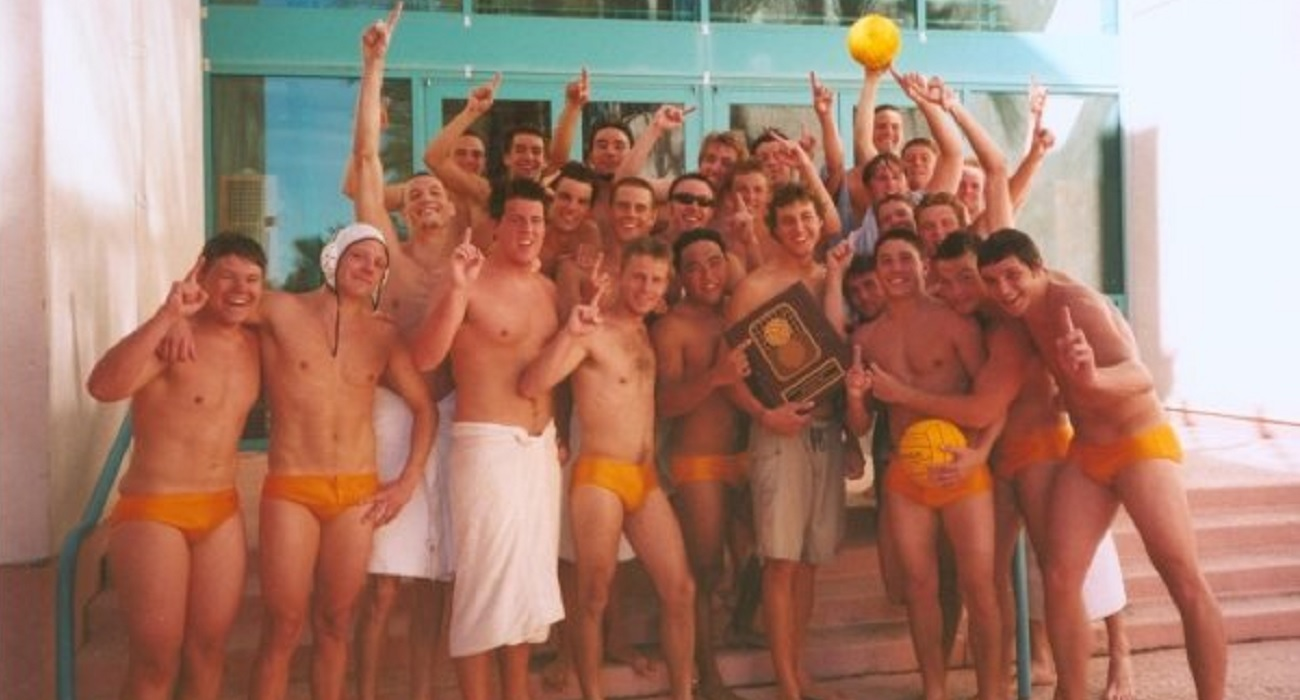
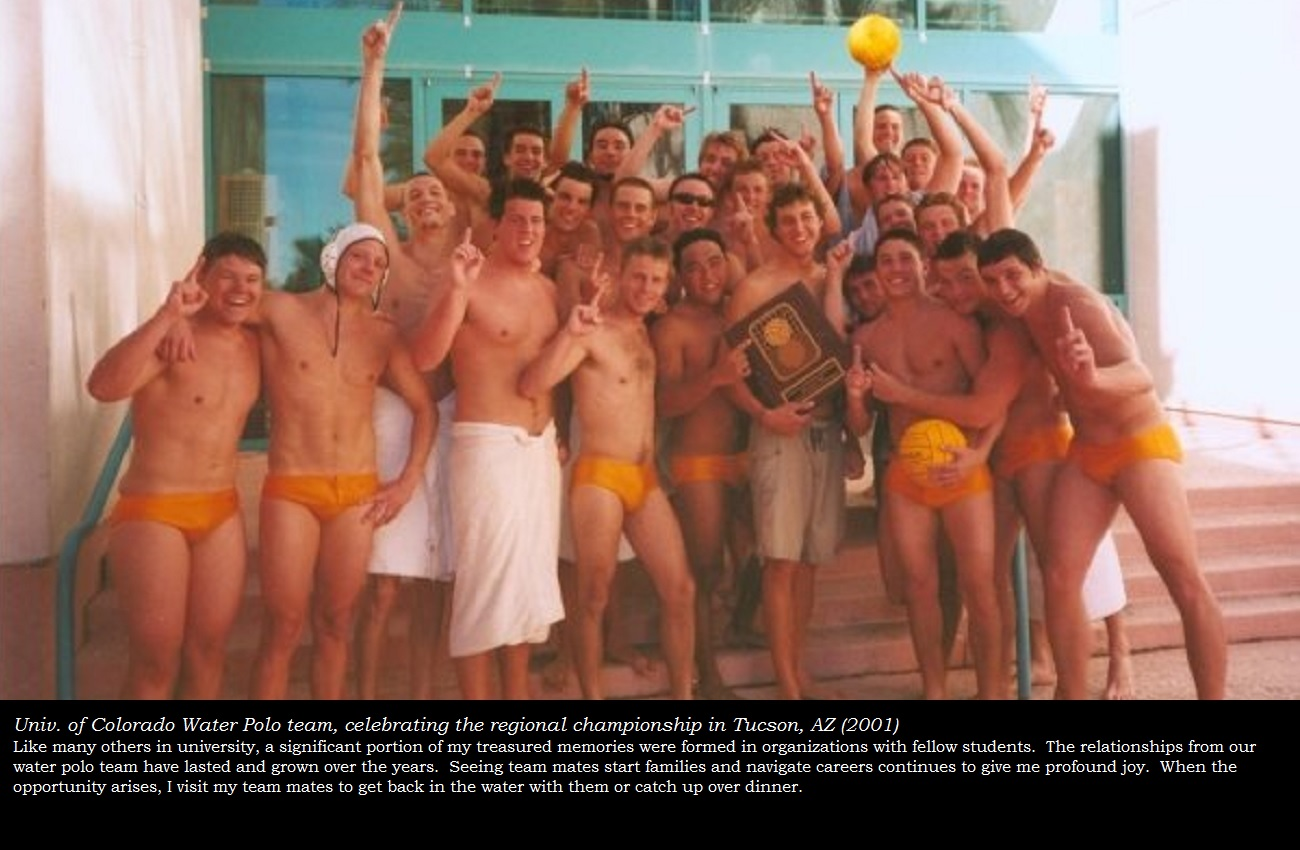
Full Img captions
added captions to the full-size images for the personal portfolio

diff --git a/vendor/magnific-popup/jquery.magnific-popup.min.js b/vendor/magnific-popup/jquery.magnific-popup.min.js
@@ -5,4 +5,4 @@
 * Copyright (c) 2016 Dmitry Semenov;
  */
 !
-function(a){"function"==typeof define&&define.amd?define(["jquery"],a):a("object"==typeof exports?require("jquery"):window.jQuery||window.Zepto)}(function(a){var b,c,d,e,f,g,h="Close",i="BeforeClose",j="AfterClose",k="BeforeAppend",l="MarkupParse",m="Open",n="Change",o="mfp",p="."+o,q="mfp-ready",r="mfp-removing",s="mfp-prevent-close",t=function(){},u=!!window.jQuery,v=a(window),w=function(a,c){b.ev.on(o+a+p,c)},x=function(b,c,d,e){var f=document.createElement("div");return f.className="mfp-"+b,d&&(f.innerHTML=d),e?c&&c.appendChild(f):(f=a(f),c&&f.appendTo(c)),f},y=function(c,d){b.ev.triggerHandler(o+c,d),b.st.callbacks&&(c=c.charAt(0).toLowerCase()+c.slice(1),b.st.callbacks[c]&&b.st.callbacks[c].apply(b,a.isArray(d)?d:[d]))},z=function(c){return c===g&&b.currTemplate.closeBtn||(b.currTemplate.closeBtn=a(b.st.closeMarkup.replace("%title%",b.st.tClose)),g=c),b.currTemplate.closeBtn},A=function(){a.magnificPopup.instance||(b=new t,b.init(),a.magnificPopup.instance=b)},B=function(){var a=document.createElement("p").style,b=["ms","O","Moz","Webkit"];if(void 0!==a.transition)return!0;for(;b.length;)if(b.pop()+"Transition"in a)return!0;return!1};t.prototype={constructor:t,init:function(){var c=navigator.appVersion;b.isLowIE=b.isIE8=document.all&&!document.addEventListener,b.isAndroid=/android/gi.test(c),b.isIOS=/iphone|ipad|ipod/gi.test(c),b.supportsTransition=B(),b.probablyMobile=b.isAndroid||b.isIOS||/(Opera Mini)|Kindle|webOS|BlackBerry|(Opera Mobi)|(Windows Phone)|IEMobile/i.test(navigator.userAgent),d=a(document),b.popupsCache={}},open:function(c){var e;if(c.isObj===!1){b.items=c.items.toArray(),b.index=0;var g,h=c.items;for(e=0;e<h.length;e++)if(g=h[e],g.parsed&&(g=g.el[0]),g===c.el[0]){b.index=e;break}}else b.items=a.isArray(c.items)?c.items:[c.items],b.index=c.index||0;if(b.isOpen)return void b.updateItemHTML();b.types=[],f="",c.mainEl&&c.mainEl.length?b.ev=c.mainEl.eq(0):b.ev=d,c.key?(b.popupsCache[c.key]||(b.popupsCache[c.key]={}),b.currTemplate=b.popupsCache[c.key]):b.currTemplate={},b.st=a.extend(!0,{},a.magnificPopup.defaults,c),b.fixedContentPos="auto"===b.st.fixedContentPos?!b.probablyMobile:b.st.fixedContentPos,b.st.modal&&(b.st.closeOnContentClick=!1,b.st.closeOnBgClick=!1,b.st.showCloseBtn=!1,b.st.enableEscapeKey=!1),b.bgOverlay||(b.bgOverlay=x("bg").on("click"+p,function(){b.close()}),b.wrap=x("wrap").attr("tabindex",-1).on("click"+p,function(a){b._checkIfClose(a.target)&&b.close()}),b.container=x("container",b.wrap)),b.contentContainer=x("content"),b.st.preloader&&(b.preloader=x("preloader",b.container,b.st.tLoading));var i=a.magnificPopup.modules;for(e=0;e<i.length;e++){var j=i[e];j=j.charAt(0).toUpperCase()+j.slice(1),b["init"+j].call(b)}y("BeforeOpen"),b.st.showCloseBtn&&(b.st.closeBtnInside?(w(l,function(a,b,c,d){c.close_replaceWith=z(d.type)}),f+=" mfp-close-btn-in"):b.wrap.append(z())),b.st.alignTop&&(f+=" mfp-align-top"),b.fixedContentPos?b.wrap.css({overflow:b.st.overflowY,overflowX:"hidden",overflowY:b.st.overflowY}):b.wrap.css({top:v.scrollTop(),position:"absolute"}),(b.st.fixedBgPos===!1||"auto"===b.st.fixedBgPos&&!b.fixedContentPos)&&b.bgOverlay.css({height:d.height(),position:"absolute"}),b.st.enableEscapeKey&&d.on("keyup"+p,function(a){27===a.keyCode&&b.close()}),v.on("resize"+p,function(){b.updateSize()}),b.st.closeOnContentClick||(f+=" mfp-auto-cursor"),f&&b.wrap.addClass(f);var k=b.wH=v.height(),n={};if(b.fixedContentPos&&b._hasScrollBar(k)){var o=b._getScrollbarSize();o&&(n.marginRight=o)}b.fixedContentPos&&(b.isIE7?a("body, html").css("overflow","hidden"):n.overflow="hidden");var r=b.st.mainClass;return b.isIE7&&(r+=" mfp-ie7"),r&&b._addClassToMFP(r),b.updateItemHTML(),y("BuildControls"),a("html").css(n),b.bgOverlay.add(b.wrap).prependTo(b.st.prependTo||a(document.body)),b._lastFocusedEl=document.activeElement,setTimeout(function(){b.content?(b._addClassToMFP(q),b._setFocus()):b.bgOverlay.addClass(q),d.on("focusin"+p,b._onFocusIn)},16),b.isOpen=!0,b.updateSize(k),y(m),c},close:function(){b.isOpen&&(y(i),b.isOpen=!1,b.st.removalDelay&&!b.isLowIE&&b.supportsTransition?(b._addClassToMFP(r),setTimeout(function(){b._close()},b.st.removalDelay)):b._close())},_close:function(){y(h);var c=r+" "+q+" ";if(b.bgOverlay.detach(),b.wrap.detach(),b.container.empty(),b.st.mainClass&&(c+=b.st.mainClass+" "),b._removeClassFromMFP(c),b.fixedContentPos){var e={marginRight:""};b.isIE7?a("body, html").css("overflow",""):e.overflow="",a("html").css(e)}d.off("keyup"+p+" focusin"+p),b.ev.off(p),b.wrap.attr("class","mfp-wrap").removeAttr("style"),b.bgOverlay.attr("class","mfp-bg"),b.container.attr("class","mfp-container"),!b.st.showCloseBtn||b.st.closeBtnInside&&b.currTemplate[b.currItem.type]!==!0||b.currTemplate.closeBtn&&b.currTemplate.closeBtn.detach(),b.st.autoFocusLast&&b._lastFocusedEl&&a(b._lastFocusedEl).focus(),b.currItem=null,b.content=null,b.currTemplate=null,b.prevHeight=0,y(j)},updateSize:function(a){if(b.isIOS){var c=document.documentElement.clientWidth/window.innerWidth,d=window.innerHeight*c;b.wrap.css("height",d),b.wH=d}else b.wH=a||v.height();b.fixedContentPos||b.wrap.css("height",b.wH),y("Resize")},updateItemHTML:function(){var c=b.items[b.index];b.contentContainer.detach(),b.content&&b.content.detach(),c.parsed||(c=b.parseEl(b.index));var d=c.type;if(y("BeforeChange",[b.currItem?b.currItem.type:"",d]),b.currItem=c,!b.currTemplate[d]){var f=b.st[d]?b.st[d].markup:!1;y("FirstMarkupParse",f),f?b.currTemplate[d]=a(f):b.currTemplate[d]=!0}e&&e!==c.type&&b.container.removeClass("mfp-"+e+"-holder");var g=b["get"+d.charAt(0).toUpperCase()+d.slice(1)](c,b.currTemplate[d]);b.appendContent(g,d),c.preloaded=!0,y(n,c),e=c.type,b.container.prepend(b.contentContainer),y("AfterChange")},appendContent:function(a,c){b.content=a,a?b.st.showCloseBtn&&b.st.closeBtnInside&&b.currTemplate[c]===!0?b.content.find(".mfp-close").length||b.content.append(z()):b.content=a:b.content="",y(k),b.container.addClass("mfp-"+c+"-holder"),b.contentContainer.append(b.content)},parseEl:function(c){var d,e=b.items[c];if(e.tagName?e={el:a(e)}:(d=e.type,e={data:e,src:e.src}),e.el){for(var f=b.types,g=0;g<f.length;g++)if(e.el.hasClass("mfp-"+f[g])){d=f[g];break}e.src=e.el.attr("data-mfp-src"),e.src||(e.src=e.el.attr("href"))}return e.type=d||b.st.type||"inline",e.index=c,e.parsed=!0,b.items[c]=e,y("ElementParse",e),b.items[c]},addGroup:function(a,c){var d=function(d){d.mfpEl=this,b._openClick(d,a,c)};c||(c={});var e="click.magnificPopup";c.mainEl=a,c.items?(c.isObj=!0,a.off(e).on(e,d)):(c.isObj=!1,c.delegate?a.off(e).on(e,c.delegate,d):(c.items=a,a.off(e).on(e,d)))},_openClick:function(c,d,e){var f=void 0!==e.midClick?e.midClick:a.magnificPopup.defaults.midClick;if(f||!(2===c.which||c.ctrlKey||c.metaKey||c.altKey||c.shiftKey)){var g=void 0!==e.disableOn?e.disableOn:a.magnificPopup.defaults.disableOn;if(g)if(a.isFunction(g)){if(!g.call(b))return!0}else if(v.width()<g)return!0;c.type&&(c.preventDefault(),b.isOpen&&c.stopPropagation()),e.el=a(c.mfpEl),e.delegate&&(e.items=d.find(e.delegate)),b.open(e)}},updateStatus:function(a,d){if(b.preloader){c!==a&&b.container.removeClass("mfp-s-"+c),d||"loading"!==a||(d=b.st.tLoading);var e={status:a,text:d};y("UpdateStatus",e),a=e.status,d=e.text,b.preloader.html(d),b.preloader.find("a").on("click",function(a){a.stopImmediatePropagation()}),b.container.addClass("mfp-s-"+a),c=a}},_checkIfClose:function(c){if(!a(c).hasClass(s)){var d=b.st.closeOnContentClick,e=b.st.closeOnBgClick;if(d&&e)return!0;if(!b.content||a(c).hasClass("mfp-close")||b.preloader&&c===b.preloader[0])return!0;if(c===b.content[0]||a.contains(b.content[0],c)){if(d)return!0}else if(e&&a.contains(document,c))return!0;return!1}},_addClassToMFP:function(a){b.bgOverlay.addClass(a),b.wrap.addClass(a)},_removeClassFromMFP:function(a){this.bgOverlay.removeClass(a),b.wrap.removeClass(a)},_hasScrollBar:function(a){return(b.isIE7?d.height():document.body.scrollHeight)>(a||v.height())},_setFocus:function(){(b.st.focus?b.content.find(b.st.focus).eq(0):b.wrap).focus()},_onFocusIn:function(c){return c.target===b.wrap[0]||a.contains(b.wrap[0],c.target)?void 0:(b._setFocus(),!1)},_parseMarkup:function(b,c,d){var e;d.data&&(c=a.extend(d.data,c)),y(l,[b,c,d]),a.each(c,function(c,d){if(void 0===d||d===!1)return!0;if(e=c.split("_"),e.length>1){var f=b.find(p+"-"+e[0]);if(f.length>0){var g=e[1];"replaceWith"===g?f[0]!==d[0]&&f.replaceWith(d):"img"===g?f.is("img")?f.attr("src",d):f.replaceWith(a("<img>").attr("src",d).attr("class",f.attr("class"))):f.attr(e[1],d)}}else b.find(p+"-"+c).html(d)})},_getScrollbarSize:function(){if(void 0===b.scrollbarSize){var a=document.createElement("div");a.style.cssText="width: 99px; height: 99px; overflow: scroll; position: absolute; top: -9999px;",document.body.appendChild(a),b.scrollbarSize=a.offsetWidth-a.clientWidth,document.body.removeChild(a)}return b.scrollbarSize}},a.magnificPopup={instance:null,proto:t.prototype,modules:[],open:function(b,c){return A(),b=b?a.extend(!0,{},b):{},b.isObj=!0,b.index=c||0,this.instance.open(b)},close:function(){return a.magnificPopup.instance&&a.magnificPopup.instance.close()},registerModule:function(b,c){c.options&&(a.magnificPopup.defaults[b]=c.options),a.extend(this.proto,c.proto),this.modules.push(b)},defaults:{disableOn:0,key:null,midClick:!1,mainClass:"",preloader:!0,focus:"",closeOnContentClick:!1,closeOnBgClick:!0,closeBtnInside:!0,showCloseBtn:!0,enableEscapeKey:!0,modal:!1,alignTop:!1,removalDelay:0,prependTo:null,fixedContentPos:"auto",fixedBgPos:"auto",overflowY:"auto",closeMarkup:'<button title="%title%" type="button" class="mfp-close">&#215;</button>',tClose:"Close (Esc)",tLoading:"Loading...",autoFocusLast:!0}},a.fn.magnificPopup=function(c){A();var d=a(this);if("string"==typeof c)if("open"===c){var e,f=u?d.data("magnificPopup"):d[0].magnificPopup,g=parseInt(arguments[1],10)||0;f.items?e=f.items[g]:(e=d,f.delegate&&(e=e.find(f.delegate)),e=e.eq(g)),b._openClick({mfpEl:e},d,f)}else b.isOpen&&b[c].apply(b,Array.prototype.slice.call(arguments,1));else c=a.extend(!0,{},c),u?d.data("magnificPopup",c):d[0].magnificPopup=c,b.addGroup(d,c);return d};var C,D,E,F="inline",G=function(){E&&(D.after(E.addClass(C)).detach(),E=null)};a.magnificPopup.registerModule(F,{options:{hiddenClass:"hide",markup:"",tNotFound:"Content not found"},proto:{initInline:function(){b.types.push(F),w(h+"."+F,function(){G()})},getInline:function(c,d){if(G(),c.src){var e=b.st.inline,f=a(c.src);if(f.length){var g=f[0].parentNode;g&&g.tagName&&(D||(C=e.hiddenClass,D=x(C),C="mfp-"+C),E=f.after(D).detach().removeClass(C)),b.updateStatus("ready")}else b.updateStatus("error",e.tNotFound),f=a("<div>");return c.inlineElement=f,f}return b.updateStatus("ready"),b._parseMarkup(d,{},c),d}}});var H,I="ajax",J=function(){H&&a(document.body).removeClass(H)},K=function(){J(),b.req&&b.req.abort()};a.magnificPopup.registerModule(I,{options:{settings:null,cursor:"mfp-ajax-cur",tError:'<a href="%url%">The content</a> could not be loaded.'},proto:{initAjax:function(){b.types.push(I),H=b.st.ajax.cursor,w(h+"."+I,K),w("BeforeChange."+I,K)},getAjax:function(c){H&&a(document.body).addClass(H),b.updateStatus("loading");var d=a.extend({url:c.src,success:function(d,e,f){var g={data:d,xhr:f};y("ParseAjax",g),b.appendContent(a(g.data),I),c.finished=!0,J(),b._setFocus(),setTimeout(function(){b.wrap.addClass(q)},16),b.updateStatus("ready"),y("AjaxContentAdded")},error:function(){J(),c.finished=c.loadError=!0,b.updateStatus("error",b.st.ajax.tError.replace("%url%",c.src))}},b.st.ajax.settings);return b.req=a.ajax(d),""}}});var L,M=function(c){if(c.data&&void 0!==c.data.title)return c.data.title;var d=b.st.image.titleSrc;if(d){if(a.isFunction(d))return d.call(b,c);if(c.el)return c.el.attr(d)||""}return""};a.magnificPopup.registerModule("image",{options:{markup:'<div class="mfp-figure"><div class="mfp-close"></div><figure><div class="mfp-img"></div><figcaption><div class="mfp-bottom-bar"><div class="mfp-title"></div><div class="mfp-counter"></div></div></figcaption></figure></div>',cursor:"mfp-zoom-out-cur",titleSrc:"title",verticalFit:!0,tError:'<a href="%url%">The image</a> could not be loaded.'},proto:{initImage:function(){var c=b.st.image,d=".image";b.types.push("image"),w(m+d,function(){"image"===b.currItem.type&&c.cursor&&a(document.body).addClass(c.cursor)}),w(h+d,function(){c.cursor&&a(document.body).removeClass(c.cursor),v.off("resize"+p)}),w("Resize"+d,b.resizeImage),b.isLowIE&&w("AfterChange",b.resizeImage)},resizeImage:function(){var a=b.currItem;if(a&&a.img&&b.st.image.verticalFit){var c=0;b.isLowIE&&(c=parseInt(a.img.css("padding-top"),10)+parseInt(a.img.css("padding-bottom"),10)),a.img.css("max-height",b.wH-c)}},_onImageHasSize:function(a){a.img&&(a.hasSize=!0,L&&clearInterval(L),a.isCheckingImgSize=!1,y("ImageHasSize",a),a.imgHidden&&(b.content&&b.content.removeClass("mfp-loading"),a.imgHidden=!1))},findImageSize:function(a){var c=0,d=a.img[0],e=function(f){L&&clearInterval(L),L=setInterval(function(){return d.naturalWidth>0?void b._onImageHasSize(a):(c>200&&clearInterval(L),c++,void(3===c?e(10):40===c?e(50):100===c&&e(500)))},f)};e(1)},getImage:function(c,d){var e=0,f=function(){c&&(c.img[0].complete?(c.img.off(".mfploader"),c===b.currItem&&(b._onImageHasSize(c),b.updateStatus("ready")),c.hasSize=!0,c.loaded=!0,y("ImageLoadComplete")):(e++,200>e?setTimeout(f,100):g()))},g=function(){c&&(c.img.off(".mfploader"),c===b.currItem&&(b._onImageHasSize(c),b.updateStatus("error",h.tError.replace("%url%",c.src))),c.hasSize=!0,c.loaded=!0,c.loadError=!0)},h=b.st.image,i=d.find(".mfp-img");if(i.length){var j=document.createElement("img");j.className="mfp-img",c.el&&c.el.find("img").length&&(j.alt=c.el.find("img").attr("alt")),c.img=a(j).on("load.mfploader",f).on("error.mfploader",g),j.src=c.src,i.is("img")&&(c.img=c.img.clone()),j=c.img[0],j.naturalWidth>0?c.hasSize=!0:j.width||(c.hasSize=!1)}return b._parseMarkup(d,{title:M(c),img_replaceWith:c.img},c),b.resizeImage(),c.hasSize?(L&&clearInterval(L),c.loadError?(d.addClass("mfp-loading"),b.updateStatus("error",h.tError.replace("%url%",c.src))):(d.removeClass("mfp-loading"),b.updateStatus("ready")),d):(b.updateStatus("loading"),c.loading=!0,c.hasSize||(c.imgHidden=!0,d.addClass("mfp-loading"),b.findImageSize(c)),d)}}});var N,O=function(){return void 0===N&&(N=void 0!==document.createElement("p").style.MozTransform),N};a.magnificPopup.registerModule("zoom",{options:{enabled:!1,easing:"ease-in-out",duration:300,opener:function(a){return a.is("img")?a:a.find("img")}},proto:{initZoom:function(){var a,c=b.st.zoom,d=".zoom";if(c.enabled&&b.supportsTransition){var e,f,g=c.duration,j=function(a){var b=a.clone().removeAttr("style").removeAttr("class").addClass("mfp-animated-image"),d="all "+c.duration/1e3+"s "+c.easing,e={position:"fixed",zIndex:9999,left:0,top:0,"-webkit-backface-visibility":"hidden"},f="transition";return e["-webkit-"+f]=e["-moz-"+f]=e["-o-"+f]=e[f]=d,b.css(e),b},k=function(){b.content.css("visibility","visible")};w("BuildControls"+d,function(){if(b._allowZoom()){if(clearTimeout(e),b.content.css("visibility","hidden"),a=b._getItemToZoom(),!a)return void k();f=j(a),f.css(b._getOffset()),b.wrap.append(f),e=setTimeout(function(){f.css(b._getOffset(!0)),e=setTimeout(function(){k(),setTimeout(function(){f.remove(),a=f=null,y("ZoomAnimationEnded")},16)},g)},16)}}),w(i+d,function(){if(b._allowZoom()){if(clearTimeout(e),b.st.removalDelay=g,!a){if(a=b._getItemToZoom(),!a)return;f=j(a)}f.css(b._getOffset(!0)),b.wrap.append(f),b.content.css("visibility","hidden"),setTimeout(function(){f.css(b._getOffset())},16)}}),w(h+d,function(){b._allowZoom()&&(k(),f&&f.remove(),a=null)})}},_allowZoom:function(){return"image"===b.currItem.type},_getItemToZoom:function(){return b.currItem.hasSize?b.currItem.img:!1},_getOffset:function(c){var d;d=c?b.currItem.img:b.st.zoom.opener(b.currItem.el||b.currItem);var e=d.offset(),f=parseInt(d.css("padding-top"),10),g=parseInt(d.css("padding-bottom"),10);e.top-=a(window).scrollTop()-f;var h={width:d.width(),height:(u?d.innerHeight():d[0].offsetHeight)-g-f};return O()?h["-moz-transform"]=h.transform="translate("+e.left+"px,"+e.top+"px)":(h.left=e.left,h.top=e.top),h}}});var P="iframe",Q="//about:blank",R=function(a){if(b.currTemplate[P]){var c=b.currTemplate[P].find("iframe");c.length&&(a||(c[0].src=Q),b.isIE8&&c.css("display",a?"block":"none"))}};a.magnificPopup.registerModule(P,{options:{markup:'<div class="mfp-iframe-scaler"><div class="mfp-close"></div><iframe class="mfp-iframe" src="//about:blank" frameborder="0" allowfullscreen></iframe></div>',srcAction:"iframe_src",patterns:{youtube:{index:"youtube.com",id:"v=",src:"//www.youtube.com/embed/%id%?autoplay=1"},vimeo:{index:"vimeo.com/",id:"/",src:"//player.vimeo.com/video/%id%?autoplay=1"},gmaps:{index:"//maps.google.",src:"%id%&output=embed"}}},proto:{initIframe:function(){b.types.push(P),w("BeforeChange",function(a,b,c){b!==c&&(b===P?R():c===P&&R(!0))}),w(h+"."+P,function(){R()})},getIframe:function(c,d){var e=c.src,f=b.st.iframe;a.each(f.patterns,function(){return e.indexOf(this.index)>-1?(this.id&&(e="string"==typeof this.id?e.substr(e.lastIndexOf(this.id)+this.id.length,e.length):this.id.call(this,e)),e=this.src.replace("%id%",e),!1):void 0});var g={};return f.srcAction&&(g[f.srcAction]=e),b._parseMarkup(d,g,c),b.updateStatus("ready"),d}}});var S=function(a){var c=b.items.length;return a>c-1?a-c:0>a?c+a:a},T=function(a,b,c){return a.replace(/%curr%/gi,b+1).replace(/%total%/gi,c)};a.magnificPopup.registerModule("gallery",{options:{enabled:!1,arrowMarkup:'<button title="%title%" type="button" class="mfp-arrow mfp-arrow-%dir%"></button>',preload:[0,2],navigateByImgClick:!0,arrows:!0,tPrev:"Previous (Left arrow key)",tNext:"Next (Right arrow key)",tCounter:"%curr% of %total%"},proto:{initGallery:function(){var c=b.st.gallery,e=".mfp-gallery";return b.direction=!0,c&&c.enabled?(f+=" mfp-gallery",w(m+e,function(){c.navigateByImgClick&&b.wrap.on("click"+e,".mfp-img",function(){return b.items.length>1?(b.next(),!1):void 0}),d.on("keydown"+e,function(a){37===a.keyCode?b.prev():39===a.keyCode&&b.next()})}),w("UpdateStatus"+e,function(a,c){c.text&&(c.text=T(c.text,b.currItem.index,b.items.length))}),w(l+e,function(a,d,e,f){var g=b.items.length;e.counter=g>1?T(c.tCounter,f.index,g):""}),w("BuildControls"+e,function(){if(b.items.length>1&&c.arrows&&!b.arrowLeft){var d=c.arrowMarkup,e=b.arrowLeft=a(d.replace(/%title%/gi,c.tPrev).replace(/%dir%/gi,"left")).addClass(s),f=b.arrowRight=a(d.replace(/%title%/gi,c.tNext).replace(/%dir%/gi,"right")).addClass(s);e.click(function(){b.prev()}),f.click(function(){b.next()}),b.container.append(e.add(f))}}),w(n+e,function(){b._preloadTimeout&&clearTimeout(b._preloadTimeout),b._preloadTimeout=setTimeout(function(){b.preloadNearbyImages(),b._preloadTimeout=null},16)}),void w(h+e,function(){d.off(e),b.wrap.off("click"+e),b.arrowRight=b.arrowLeft=null})):!1},next:function(){b.direction=!0,b.index=S(b.index+1),b.updateItemHTML()},prev:function(){b.direction=!1,b.index=S(b.index-1),b.updateItemHTML()},goTo:function(a){b.direction=a>=b.index,b.index=a,b.updateItemHTML()},preloadNearbyImages:function(){var a,c=b.st.gallery.preload,d=Math.min(c[0],b.items.length),e=Math.min(c[1],b.items.length);for(a=1;a<=(b.direction?e:d);a++)b._preloadItem(b.index+a);for(a=1;a<=(b.direction?d:e);a++)b._preloadItem(b.index-a)},_preloadItem:function(c){if(c=S(c),!b.items[c].preloaded){var d=b.items[c];d.parsed||(d=b.parseEl(c)),y("LazyLoad",d),"image"===d.type&&(d.img=a('<img class="mfp-img" />').on("load.mfploader",function(){d.hasSize=!0}).on("error.mfploader",function(){d.hasSize=!0,d.loadError=!0,y("LazyLoadError",d)}).attr("src",d.src)),d.preloaded=!0}}}});var U="retina";a.magnificPopup.registerModule(U,{options:{replaceSrc:function(a){return a.src.replace(/\.\w+$/,function(a){return"@2x"+a})},ratio:1},proto:{initRetina:function(){if(window.devicePixelRatio>1){var a=b.st.retina,c=a.ratio;c=isNaN(c)?c():c,c>1&&(w("ImageHasSize."+U,function(a,b){b.img.css({"max-width":b.img[0].naturalWidth/c,width:"100%"})}),w("ElementParse."+U,function(b,d){d.src=a.replaceSrc(d,c)}))}}}}),A()});
+function(a){"function"==typeof define&&define.amd?define(["jquery"],a):a("object"==typeof exports?require("jquery"):window.jQuery||window.Zepto)}(function(a){var b,c,d,e,f,g,h="Close",i="BeforeClose",j="AfterClose",k="BeforeAppend",l="MarkupParse",m="Open",n="Change",o="mfp",p="."+o,q="mfp-ready",r="mfp-removing",s="mfp-prevent-close",t=function(){},u=!!window.jQuery,v=a(window),w=function(a,c){b.ev.on(o+a+p,c)},x=function(b,c,d,e){var f=document.createElement("div");return f.className="mfp-"+b,d&&(f.innerHTML=d),e?c&&c.appendChild(f):(f=a(f),c&&f.appendTo(c)),f},y=function(c,d){b.ev.triggerHandler(o+c,d),b.st.callbacks&&(c=c.charAt(0).toLowerCase()+c.slice(1),b.st.callbacks[c]&&b.st.callbacks[c].apply(b,a.isArray(d)?d:[d]))},z=function(c){return c===g&&b.currTemplate.closeBtn||(b.currTemplate.closeBtn=a(b.st.closeMarkup.replace("%title%",b.st.tClose)),g=c),b.currTemplate.closeBtn},A=function(){a.magnificPopup.instance||(b=new t,b.init(),a.magnificPopup.instance=b)},B=function(){var a=document.createElement("p").style,b=["ms","O","Moz","Webkit"];if(void 0!==a.transition)return!0;for(;b.length;)if(b.pop()+"Transition"in a)return!0;return!1};t.prototype={constructor:t,init:function(){var c=navigator.appVersion;b.isLowIE=b.isIE8=document.all&&!document.addEventListener,b.isAndroid=/android/gi.test(c),b.isIOS=/iphone|ipad|ipod/gi.test(c),b.supportsTransition=B(),b.probablyMobile=b.isAndroid||b.isIOS||/(Opera Mini)|Kindle|webOS|BlackBerry|(Opera Mobi)|(Windows Phone)|IEMobile/i.test(navigator.userAgent),d=a(document),b.popupsCache={}},open:function(c){var e;if(c.isObj===!1){b.items=c.items.toArray(),b.index=0;var g,h=c.items;for(e=0;e<h.length;e++)if(g=h[e],g.parsed&&(g=g.el[0]),g===c.el[0]){b.index=e;break}}else b.items=a.isArray(c.items)?c.items:[c.items],b.index=c.index||0;if(b.isOpen)return void b.updateItemHTML();b.types=[],f="",c.mainEl&&c.mainEl.length?b.ev=c.mainEl.eq(0):b.ev=d,c.key?(b.popupsCache[c.key]||(b.popupsCache[c.key]={}),b.currTemplate=b.popupsCache[c.key]):b.currTemplate={},b.st=a.extend(!0,{},a.magnificPopup.defaults,c),b.fixedContentPos="auto"===b.st.fixedContentPos?!b.probablyMobile:b.st.fixedContentPos,b.st.modal&&(b.st.closeOnContentClick=!1,b.st.closeOnBgClick=!1,b.st.showCloseBtn=!1,b.st.enableEscapeKey=!1),b.bgOverlay||(b.bgOverlay=x("bg").on("click"+p,function(){b.close()}),b.wrap=x("wrap").attr("tabindex",-1).on("click"+p,function(a){b._checkIfClose(a.target)&&b.close()}),b.container=x("container",b.wrap)),b.contentContainer=x("content"),b.st.preloader&&(b.preloader=x("preloader",b.container,b.st.tLoading));var i=a.magnificPopup.modules;for(e=0;e<i.length;e++){var j=i[e];j=j.charAt(0).toUpperCase()+j.slice(1),b["init"+j].call(b)}y("BeforeOpen"),b.st.showCloseBtn&&(b.st.closeBtnInside?(w(l,function(a,b,c,d){c.close_replaceWith=z(d.type)}),f+=" mfp-close-btn-in"):b.wrap.append(z())),b.st.alignTop&&(f+=" mfp-align-top"),b.fixedContentPos?b.wrap.css({overflow:b.st.overflowY,overflowX:"hidden",overflowY:b.st.overflowY}):b.wrap.css({top:v.scrollTop(),position:"absolute"}),(b.st.fixedBgPos===!1||"auto"===b.st.fixedBgPos&&!b.fixedContentPos)&&b.bgOverlay.css({height:d.height(),position:"absolute"}),b.st.enableEscapeKey&&d.on("keyup"+p,function(a){27===a.keyCode&&b.close()}),v.on("resize"+p,function(){b.updateSize()}),b.st.closeOnContentClick||(f+=" mfp-auto-cursor"),f&&b.wrap.addClass(f);var k=b.wH=v.height(),n={};if(b.fixedContentPos&&b._hasScrollBar(k)){var o=b._getScrollbarSize();o&&(n.marginRight=o)}b.fixedContentPos&&(b.isIE7?a("body, html").css("overflow","hidden"):n.overflow="hidden");var r=b.st.mainClass;return b.isIE7&&(r+=" mfp-ie7"),r&&b._addClassToMFP(r),b.updateItemHTML(),y("BuildControls"),a("html").css(n),b.bgOverlay.add(b.wrap).prependTo(b.st.prependTo||a(document.body)),b._lastFocusedEl=document.activeElement,setTimeout(function(){b.content?(b._addClassToMFP(q),b._setFocus()):b.bgOverlay.addClass(q),d.on("focusin"+p,b._onFocusIn)},16),b.isOpen=!0,b.updateSize(k),y(m),c},close:function(){b.isOpen&&(y(i),b.isOpen=!1,b.st.removalDelay&&!b.isLowIE&&b.supportsTransition?(b._addClassToMFP(r),setTimeout(function(){b._close()},b.st.removalDelay)):b._close())},_close:function(){y(h);var c=r+" "+q+" ";if(b.bgOverlay.detach(),b.wrap.detach(),b.container.empty(),b.st.mainClass&&(c+=b.st.mainClass+" "),b._removeClassFromMFP(c),b.fixedContentPos){var e={marginRight:""};b.isIE7?a("body, html").css("overflow",""):e.overflow="",a("html").css(e)}d.off("keyup"+p+" focusin"+p),b.ev.off(p),b.wrap.attr("class","mfp-wrap").removeAttr("style"),b.bgOverlay.attr("class","mfp-bg"),b.container.attr("class","mfp-container"),!b.st.showCloseBtn||b.st.closeBtnInside&&b.currTemplate[b.currItem.type]!==!0||b.currTemplate.closeBtn&&b.currTemplate.closeBtn.detach(),b.st.autoFocusLast&&b._lastFocusedEl&&a(b._lastFocusedEl).focus(),b.currItem=null,b.content=null,b.currTemplate=null,b.prevHeight=0,y(j)},updateSize:function(a){if(b.isIOS){var c=document.documentElement.clientWidth/window.innerWidth,d=window.innerHeight*c;b.wrap.css("height",d),b.wH=d}else b.wH=a||v.height();b.fixedContentPos||b.wrap.css("height",b.wH),y("Resize")},updateItemHTML:function(){var c=b.items[b.index];b.contentContainer.detach(),b.content&&b.content.detach(),c.parsed||(c=b.parseEl(b.index));var d=c.type;if(y("BeforeChange",[b.currItem?b.currItem.type:"",d]),b.currItem=c,!b.currTemplate[d]){var f=b.st[d]?b.st[d].markup:!1;y("FirstMarkupParse",f),f?b.currTemplate[d]=a(f):b.currTemplate[d]=!0}e&&e!==c.type&&b.container.removeClass("mfp-"+e+"-holder");var g=b["get"+d.charAt(0).toUpperCase()+d.slice(1)](c,b.currTemplate[d]);b.appendContent(g,d),c.preloaded=!0,y(n,c),e=c.type,b.container.prepend(b.contentContainer),y("AfterChange")},appendContent:function(a,c){b.content=a,a?b.st.showCloseBtn&&b.st.closeBtnInside&&b.currTemplate[c]===!0?b.content.find(".mfp-close").length||b.content.append(z()):b.content=a:b.content="",y(k),b.container.addClass("mfp-"+c+"-holder"),b.contentContainer.append(b.content)},parseEl:function(c){var d,e=b.items[c];if(e.tagName?e={el:a(e)}:(d=e.type,e={data:e,src:e.src}),e.el){for(var f=b.types,g=0;g<f.length;g++)if(e.el.hasClass("mfp-"+f[g])){d=f[g];break}e.src=e.el.attr("data-mfp-src"),e.src||(e.src=e.el.attr("href"))}return e.type=d||b.st.type||"inline",e.index=c,e.parsed=!0,b.items[c]=e,y("ElementParse",e),b.items[c]},addGroup:function(a,c){var d=function(d){d.mfpEl=this,b._openClick(d,a,c)};c||(c={});var e="click.magnificPopup";c.mainEl=a,c.items?(c.isObj=!0,a.off(e).on(e,d)):(c.isObj=!1,c.delegate?a.off(e).on(e,c.delegate,d):(c.items=a,a.off(e).on(e,d)))},_openClick:function(c,d,e){var f=void 0!==e.midClick?e.midClick:a.magnificPopup.defaults.midClick;if(f||!(2===c.which||c.ctrlKey||c.metaKey||c.altKey||c.shiftKey)){var g=void 0!==e.disableOn?e.disableOn:a.magnificPopup.defaults.disableOn;if(g)if(a.isFunction(g)){if(!g.call(b))return!0}else if(v.width()<g)return!0;c.type&&(c.preventDefault(),b.isOpen&&c.stopPropagation()),e.el=a(c.mfpEl),e.delegate&&(e.items=d.find(e.delegate)),b.open(e)}},updateStatus:function(a,d){if(b.preloader){c!==a&&b.container.removeClass("mfp-s-"+c),d||"loading"!==a||(d=b.st.tLoading);var e={status:a,text:d};y("UpdateStatus",e),a=e.status,d=e.text,b.preloader.html(d),b.preloader.find("a").on("click",function(a){a.stopImmediatePropagation()}),b.container.addClass("mfp-s-"+a),c=a}},_checkIfClose:function(c){if(!a(c).hasClass(s)){var d=b.st.closeOnContentClick,e=b.st.closeOnBgClick;if(d&&e)return!0;if(!b.content||a(c).hasClass("mfp-close")||b.preloader&&c===b.preloader[0])return!0;if(c===b.content[0]||a.contains(b.content[0],c)){if(d)return!0}else if(e&&a.contains(document,c))return!0;return!1}},_addClassToMFP:function(a){b.bgOverlay.addClass(a),b.wrap.addClass(a)},_removeClassFromMFP:function(a){this.bgOverlay.removeClass(a),b.wrap.removeClass(a)},_hasScrollBar:function(a){return(b.isIE7?d.height():document.body.scrollHeight)>(a||v.height())},_setFocus:function(){(b.st.focus?b.content.find(b.st.focus).eq(0):b.wrap).focus()},_onFocusIn:function(c){return c.target===b.wrap[0]||a.contains(b.wrap[0],c.target)?void 0:(b._setFocus(),!1)},_parseMarkup:function(b,c,d){var e;d.data&&(c=a.extend(d.data,c)),y(l,[b,c,d]),a.each(c,function(c,d){if(void 0===d||d===!1)return!0;if(e=c.split("_"),e.length>1){var f=b.find(p+"-"+e[0]);if(f.length>0){var g=e[1];"replaceWith"===g?f[0]!==d[0]&&f.replaceWith(d):"img"===g?f.is("img")?f.attr("src",d):f.replaceWith(a("<img>").attr("src",d).attr("class",f.attr("class"))):f.attr(e[1],d)}}else b.find(p+"-"+c).html(d)})},_getScrollbarSize:function(){if(void 0===b.scrollbarSize){var a=document.createElement("div");a.style.cssText="width: 99px; height: 99px; overflow: scroll; position: absolute; top: -9999px;",document.body.appendChild(a),b.scrollbarSize=a.offsetWidth-a.clientWidth,document.body.removeChild(a)}return b.scrollbarSize}},a.magnificPopup={instance:null,proto:t.prototype,modules:[],open:function(b,c){return A(),b=b?a.extend(!0,{},b):{},b.isObj=!0,b.index=c||0,this.instance.open(b)},close:function(){return a.magnificPopup.instance&&a.magnificPopup.instance.close()},registerModule:function(b,c){c.options&&(a.magnificPopup.defaults[b]=c.options),a.extend(this.proto,c.proto),this.modules.push(b)},defaults:{disableOn:0,key:null,midClick:!1,mainClass:"",preloader:!0,focus:"",closeOnContentClick:!1,closeOnBgClick:!0,closeBtnInside:!0,showCloseBtn:!0,enableEscapeKey:!0,modal:!1,alignTop:!1,removalDelay:0,prependTo:null,fixedContentPos:"auto",fixedBgPos:"auto",overflowY:"auto",closeMarkup:'<button title="%title%" type="button" class="mfp-close">&#215;</button>',tClose:"Close (Esc)",tLoading:"Loading...",autoFocusLast:!0}},a.fn.magnificPopup=function(c){A();var d=a(this);if("string"==typeof c)if("open"===c){var e,f=u?d.data("magnificPopup"):d[0].magnificPopup,g=parseInt(arguments[1],10)||0;f.items?e=f.items[g]:(e=d,f.delegate&&(e=e.find(f.delegate)),e=e.eq(g)),b._openClick({mfpEl:e},d,f)}else b.isOpen&&b[c].apply(b,Array.prototype.slice.call(arguments,1));else c=a.extend(!0,{},c),u?d.data("magnificPopup",c):d[0].magnificPopup=c,b.addGroup(d,c);return d};var C,D,E,F="inline",G=function(){E&&(D.after(E.addClass(C)).detach(),E=null)};a.magnificPopup.registerModule(F,{options:{hiddenClass:"hide",markup:"",tNotFound:"Content not found"},proto:{initInline:function(){b.types.push(F),w(h+"."+F,function(){G()})},getInline:function(c,d){if(G(),c.src){var e=b.st.inline,f=a(c.src);if(f.length){var g=f[0].parentNode;g&&g.tagName&&(D||(C=e.hiddenClass,D=x(C),C="mfp-"+C),E=f.after(D).detach().removeClass(C)),b.updateStatus("ready")}else b.updateStatus("error",e.tNotFound),f=a("<div>");return c.inlineElement=f,f}return b.updateStatus("ready"),b._parseMarkup(d,{},c),d}}});var H,I="ajax",J=function(){H&&a(document.body).removeClass(H)},K=function(){J(),b.req&&b.req.abort()};a.magnificPopup.registerModule(I,{options:{settings:null,cursor:"mfp-ajax-cur",tError:'<a href="%url%">The content</a> could not be loaded.'},proto:{initAjax:function(){b.types.push(I),H=b.st.ajax.cursor,w(h+"."+I,K),w("BeforeChange."+I,K)},getAjax:function(c){H&&a(document.body).addClass(H),b.updateStatus("loading");var d=a.extend({url:c.src,success:function(d,e,f){var g={data:d,xhr:f};y("ParseAjax",g),b.appendContent(a(g.data),I),c.finished=!0,J(),b._setFocus(),setTimeout(function(){b.wrap.addClass(q)},16),b.updateStatus("ready"),y("AjaxContentAdded")},error:function(){J(),c.finished=c.loadError=!0,b.updateStatus("error",b.st.ajax.tError.replace("%url%",c.src))}},b.st.ajax.settings);return b.req=a.ajax(d),""}}});var L,M=function(c){if(c.data&&void 0!==c.data.title)return c.data.title;var d=b.st.image.titleSrc;if(d){if(a.isFunction(d))return d.call(b,c);if(c.el)return c.el.attr(d)||""}return""};a.magnificPopup.registerModule("image",{options:{markup:'<div class="mfp-figure"><div class="mfp-close"></div><figure><div class="mfp-img"></div><figcaption><div class="mfp-bottom-bar"><div class="mfp-title"></div><div class="mfp-counter"></div></div></figcaption></figure></div>',cursor:"mfp-zoom-out-cur",titleSrc:"CHEWBACCA",verticalFit:!0,tError:'<a href="%url%">The image</a> could not be loaded.'},proto:{initImage:function(){var c=b.st.image,d=".image";b.types.push("image"),w(m+d,function(){"image"===b.currItem.type&&c.cursor&&a(document.body).addClass(c.cursor)}),w(h+d,function(){c.cursor&&a(document.body).removeClass(c.cursor),v.off("resize"+p)}),w("Resize"+d,b.resizeImage),b.isLowIE&&w("AfterChange",b.resizeImage)},resizeImage:function(){var a=b.currItem;if(a&&a.img&&b.st.image.verticalFit){var c=0;b.isLowIE&&(c=parseInt(a.img.css("padding-top"),10)+parseInt(a.img.css("padding-bottom"),10)),a.img.css("max-height",b.wH-c)}},_onImageHasSize:function(a){a.img&&(a.hasSize=!0,L&&clearInterval(L),a.isCheckingImgSize=!1,y("ImageHasSize",a),a.imgHidden&&(b.content&&b.content.removeClass("mfp-loading"),a.imgHidden=!1))},findImageSize:function(a){var c=0,d=a.img[0],e=function(f){L&&clearInterval(L),L=setInterval(function(){return d.naturalWidth>0?void b._onImageHasSize(a):(c>200&&clearInterval(L),c++,void(3===c?e(10):40===c?e(50):100===c&&e(500)))},f)};e(1)},getImage:function(c,d){var e=0,f=function(){c&&(c.img[0].complete?(c.img.off(".mfploader"),c===b.currItem&&(b._onImageHasSize(c),b.updateStatus("ready")),c.hasSize=!0,c.loaded=!0,y("ImageLoadComplete")):(e++,200>e?setTimeout(f,100):g()))},g=function(){c&&(c.img.off(".mfploader"),c===b.currItem&&(b._onImageHasSize(c),b.updateStatus("error",h.tError.replace("%url%",c.src))),c.hasSize=!0,c.loaded=!0,c.loadError=!0)},h=b.st.image,i=d.find(".mfp-img");if(i.length){var j=document.createElement("img");j.className="mfp-img",c.el&&c.el.find("img").length&&(j.alt=c.el.find("img").attr("alt")),c.img=a(j).on("load.mfploader",f).on("error.mfploader",g),j.src=c.src,i.is("img")&&(c.img=c.img.clone()),j=c.img[0],j.naturalWidth>0?c.hasSize=!0:j.width||(c.hasSize=!1)}return b._parseMarkup(d,{title:M(c),img_replaceWith:c.img},c),b.resizeImage(),c.hasSize?(L&&clearInterval(L),c.loadError?(d.addClass("mfp-loading"),b.updateStatus("error",h.tError.replace("%url%",c.src))):(d.removeClass("mfp-loading"),b.updateStatus("ready")),d):(b.updateStatus("loading"),c.loading=!0,c.hasSize||(c.imgHidden=!0,d.addClass("mfp-loading"),b.findImageSize(c)),d)}}});var N,O=function(){return void 0===N&&(N=void 0!==document.createElement("p").style.MozTransform),N};a.magnificPopup.registerModule("zoom",{options:{enabled:!1,easing:"ease-in-out",duration:300,opener:function(a){return a.is("img")?a:a.find("img")}},proto:{initZoom:function(){var a,c=b.st.zoom,d=".zoom";if(c.enabled&&b.supportsTransition){var e,f,g=c.duration,j=function(a){var b=a.clone().removeAttr("style").removeAttr("class").addClass("mfp-animated-image"),d="all "+c.duration/1e3+"s "+c.easing,e={position:"fixed",zIndex:9999,left:0,top:0,"-webkit-backface-visibility":"hidden"},f="transition";return e["-webkit-"+f]=e["-moz-"+f]=e["-o-"+f]=e[f]=d,b.css(e),b},k=function(){b.content.css("visibility","visible")};w("BuildControls"+d,function(){if(b._allowZoom()){if(clearTimeout(e),b.content.css("visibility","hidden"),a=b._getItemToZoom(),!a)return void k();f=j(a),f.css(b._getOffset()),b.wrap.append(f),e=setTimeout(function(){f.css(b._getOffset(!0)),e=setTimeout(function(){k(),setTimeout(function(){f.remove(),a=f=null,y("ZoomAnimationEnded")},16)},g)},16)}}),w(i+d,function(){if(b._allowZoom()){if(clearTimeout(e),b.st.removalDelay=g,!a){if(a=b._getItemToZoom(),!a)return;f=j(a)}f.css(b._getOffset(!0)),b.wrap.append(f),b.content.css("visibility","hidden"),setTimeout(function(){f.css(b._getOffset())},16)}}),w(h+d,function(){b._allowZoom()&&(k(),f&&f.remove(),a=null)})}},_allowZoom:function(){return"image"===b.currItem.type},_getItemToZoom:function(){return b.currItem.hasSize?b.currItem.img:!1},_getOffset:function(c){var d;d=c?b.currItem.img:b.st.zoom.opener(b.currItem.el||b.currItem);var e=d.offset(),f=parseInt(d.css("padding-top"),10),g=parseInt(d.css("padding-bottom"),10);e.top-=a(window).scrollTop()-f;var h={width:d.width(),height:(u?d.innerHeight():d[0].offsetHeight)-g-f};return O()?h["-moz-transform"]=h.transform="translate("+e.left+"px,"+e.top+"px)":(h.left=e.left,h.top=e.top),h}}});var P="iframe",Q="//about:blank",R=function(a){if(b.currTemplate[P]){var c=b.currTemplate[P].find("iframe");c.length&&(a||(c[0].src=Q),b.isIE8&&c.css("display",a?"block":"none"))}};a.magnificPopup.registerModule(P,{options:{markup:'<div class="mfp-iframe-scaler"><div class="mfp-close"></div><iframe class="mfp-iframe" src="//about:blank" frameborder="0" allowfullscreen></iframe></div>',srcAction:"iframe_src",patterns:{youtube:{index:"youtube.com",id:"v=",src:"//www.youtube.com/embed/%id%?autoplay=1"},vimeo:{index:"vimeo.com/",id:"/",src:"//player.vimeo.com/video/%id%?autoplay=1"},gmaps:{index:"//maps.google.",src:"%id%&output=embed"}}},proto:{initIframe:function(){b.types.push(P),w("BeforeChange",function(a,b,c){b!==c&&(b===P?R():c===P&&R(!0))}),w(h+"."+P,function(){R()})},getIframe:function(c,d){var e=c.src,f=b.st.iframe;a.each(f.patterns,function(){return e.indexOf(this.index)>-1?(this.id&&(e="string"==typeof this.id?e.substr(e.lastIndexOf(this.id)+this.id.length,e.length):this.id.call(this,e)),e=this.src.replace("%id%",e),!1):void 0});var g={};return f.srcAction&&(g[f.srcAction]=e),b._parseMarkup(d,g,c),b.updateStatus("ready"),d}}});var S=function(a){var c=b.items.length;return a>c-1?a-c:0>a?c+a:a},T=function(a,b,c){return a.replace(/%curr%/gi,b+1).replace(/%total%/gi,c)};a.magnificPopup.registerModule("gallery",{options:{enabled:!1,arrowMarkup:'<button title="%title%" type="button" class="mfp-arrow mfp-arrow-%dir%"></button>',preload:[0,2],navigateByImgClick:!0,arrows:!0,tPrev:"Previous (Left arrow key)",tNext:"Next (Right arrow key)",tCounter:"%curr% of %total%"},proto:{initGallery:function(){var c=b.st.gallery,e=".mfp-gallery";return b.direction=!0,c&&c.enabled?(f+=" mfp-gallery",w(m+e,function(){c.navigateByImgClick&&b.wrap.on("click"+e,".mfp-img",function(){return b.items.length>1?(b.next(),!1):void 0}),d.on("keydown"+e,function(a){37===a.keyCode?b.prev():39===a.keyCode&&b.next()})}),w("UpdateStatus"+e,function(a,c){c.text&&(c.text=T(c.text,b.currItem.index,b.items.length))}),w(l+e,function(a,d,e,f){var g=b.items.length;e.counter=g>1?T(c.tCounter,f.index,g):""}),w("BuildControls"+e,function(){if(b.items.length>1&&c.arrows&&!b.arrowLeft){var d=c.arrowMarkup,e=b.arrowLeft=a(d.replace(/%title%/gi,c.tPrev).replace(/%dir%/gi,"left")).addClass(s),f=b.arrowRight=a(d.replace(/%title%/gi,c.tNext).replace(/%dir%/gi,"right")).addClass(s);e.click(function(){b.prev()}),f.click(function(){b.next()}),b.container.append(e.add(f))}}),w(n+e,function(){b._preloadTimeout&&clearTimeout(b._preloadTimeout),b._preloadTimeout=setTimeout(function(){b.preloadNearbyImages(),b._preloadTimeout=null},16)}),void w(h+e,function(){d.off(e),b.wrap.off("click"+e),b.arrowRight=b.arrowLeft=null})):!1},next:function(){b.direction=!0,b.index=S(b.index+1),b.updateItemHTML()},prev:function(){b.direction=!1,b.index=S(b.index-1),b.updateItemHTML()},goTo:function(a){b.direction=a>=b.index,b.index=a,b.updateItemHTML()},preloadNearbyImages:function(){var a,c=b.st.gallery.preload,d=Math.min(c[0],b.items.length),e=Math.min(c[1],b.items.length);for(a=1;a<=(b.direction?e:d);a++)b._preloadItem(b.index+a);for(a=1;a<=(b.direction?d:e);a++)b._preloadItem(b.index-a)},_preloadItem:function(c){if(c=S(c),!b.items[c].preloaded){var d=b.items[c];d.parsed||(d=b.parseEl(c)),y("LazyLoad",d),"image"===d.type&&(d.img=a('<img class="mfp-img" />').on("load.mfploader",function(){d.hasSize=!0}).on("error.mfploader",function(){d.hasSize=!0,d.loadError=!0,y("LazyLoadError",d)}).attr("src",d.src)),d.preloaded=!0}}}});var U="retina";a.magnificPopup.registerModule(U,{options:{replaceSrc:function(a){return a.src.replace(/\.\w+$/,function(a){return"@2x"+a})},ratio:1},proto:{initRetina:function(){if(window.devicePixelRatio>1){var a=b.st.retina,c=a.ratio;c=isNaN(c)?c():c,c>1&&(w("ImageHasSize."+U,function(a,b){b.img.css({"max-width":b.img[0].naturalWidth/c,width:"100%"})}),w("ElementParse."+U,function(b,d){d.src=a.replaceSrc(d,c)}))}}}}),A()});

diff --git a/README.md b/README.md
@@ -1,26 +1,7 @@
-# [Start Bootstrap](http://startbootstrap.com/) - [Creative](http://startbootstrap.com/template-overviews/creative/)
+## Adaptation of Bootstrap Sample Page
 
-[Creative](http://startbootstrap.com/template-overviews/creative/) is a one page creative theme for [Bootstrap](http://getbootstrap.com/) created by [Start Bootstrap](http://startbootstrap.com/).
-
-## Getting Started
-
-To begin using this template, choose one of the following options to get started:
-* [Download the latest release on Start Bootstrap](http://startbootstrap.com/template-overviews/creative/)
-* Clone the repo: `git clone https://github.com/BlackrockDigital/startbootstrap-creative.git`
-* Fork the repo
-
-## Bugs and Issues
-
-Have a bug or an issue with this template? [Open a new issue](https://github.com/BlackrockDigital/startbootstrap-creative/issues) here on GitHub or leave a comment on the [template overview page at Start Bootstrap](http://startbootstrap.com/template-overviews/creative/).
-
-## Creator
-
-Start Bootstrap was created by and is maintained by **[David Miller](http://davidmiller.io/)**, Owner of [Blackrock Digital](http://blackrockdigital.io/).
-
-* https://twitter.com/davidmillerskt
-* https://github.com/davidtmiller
-
-Start Bootstrap is based on the [Bootstrap](http://getbootstrap.com/) framework created by [Mark Otto](https://twitter.com/mdo) and [Jacob Thorton](https://twitter.com/fat).
+Provided free of charge by startbootstrap.com
+Amended by Ryu Izawa on 2017-05-21 with deep appreciation to startbootstrap.com
 
 ## Copyright and License
 
